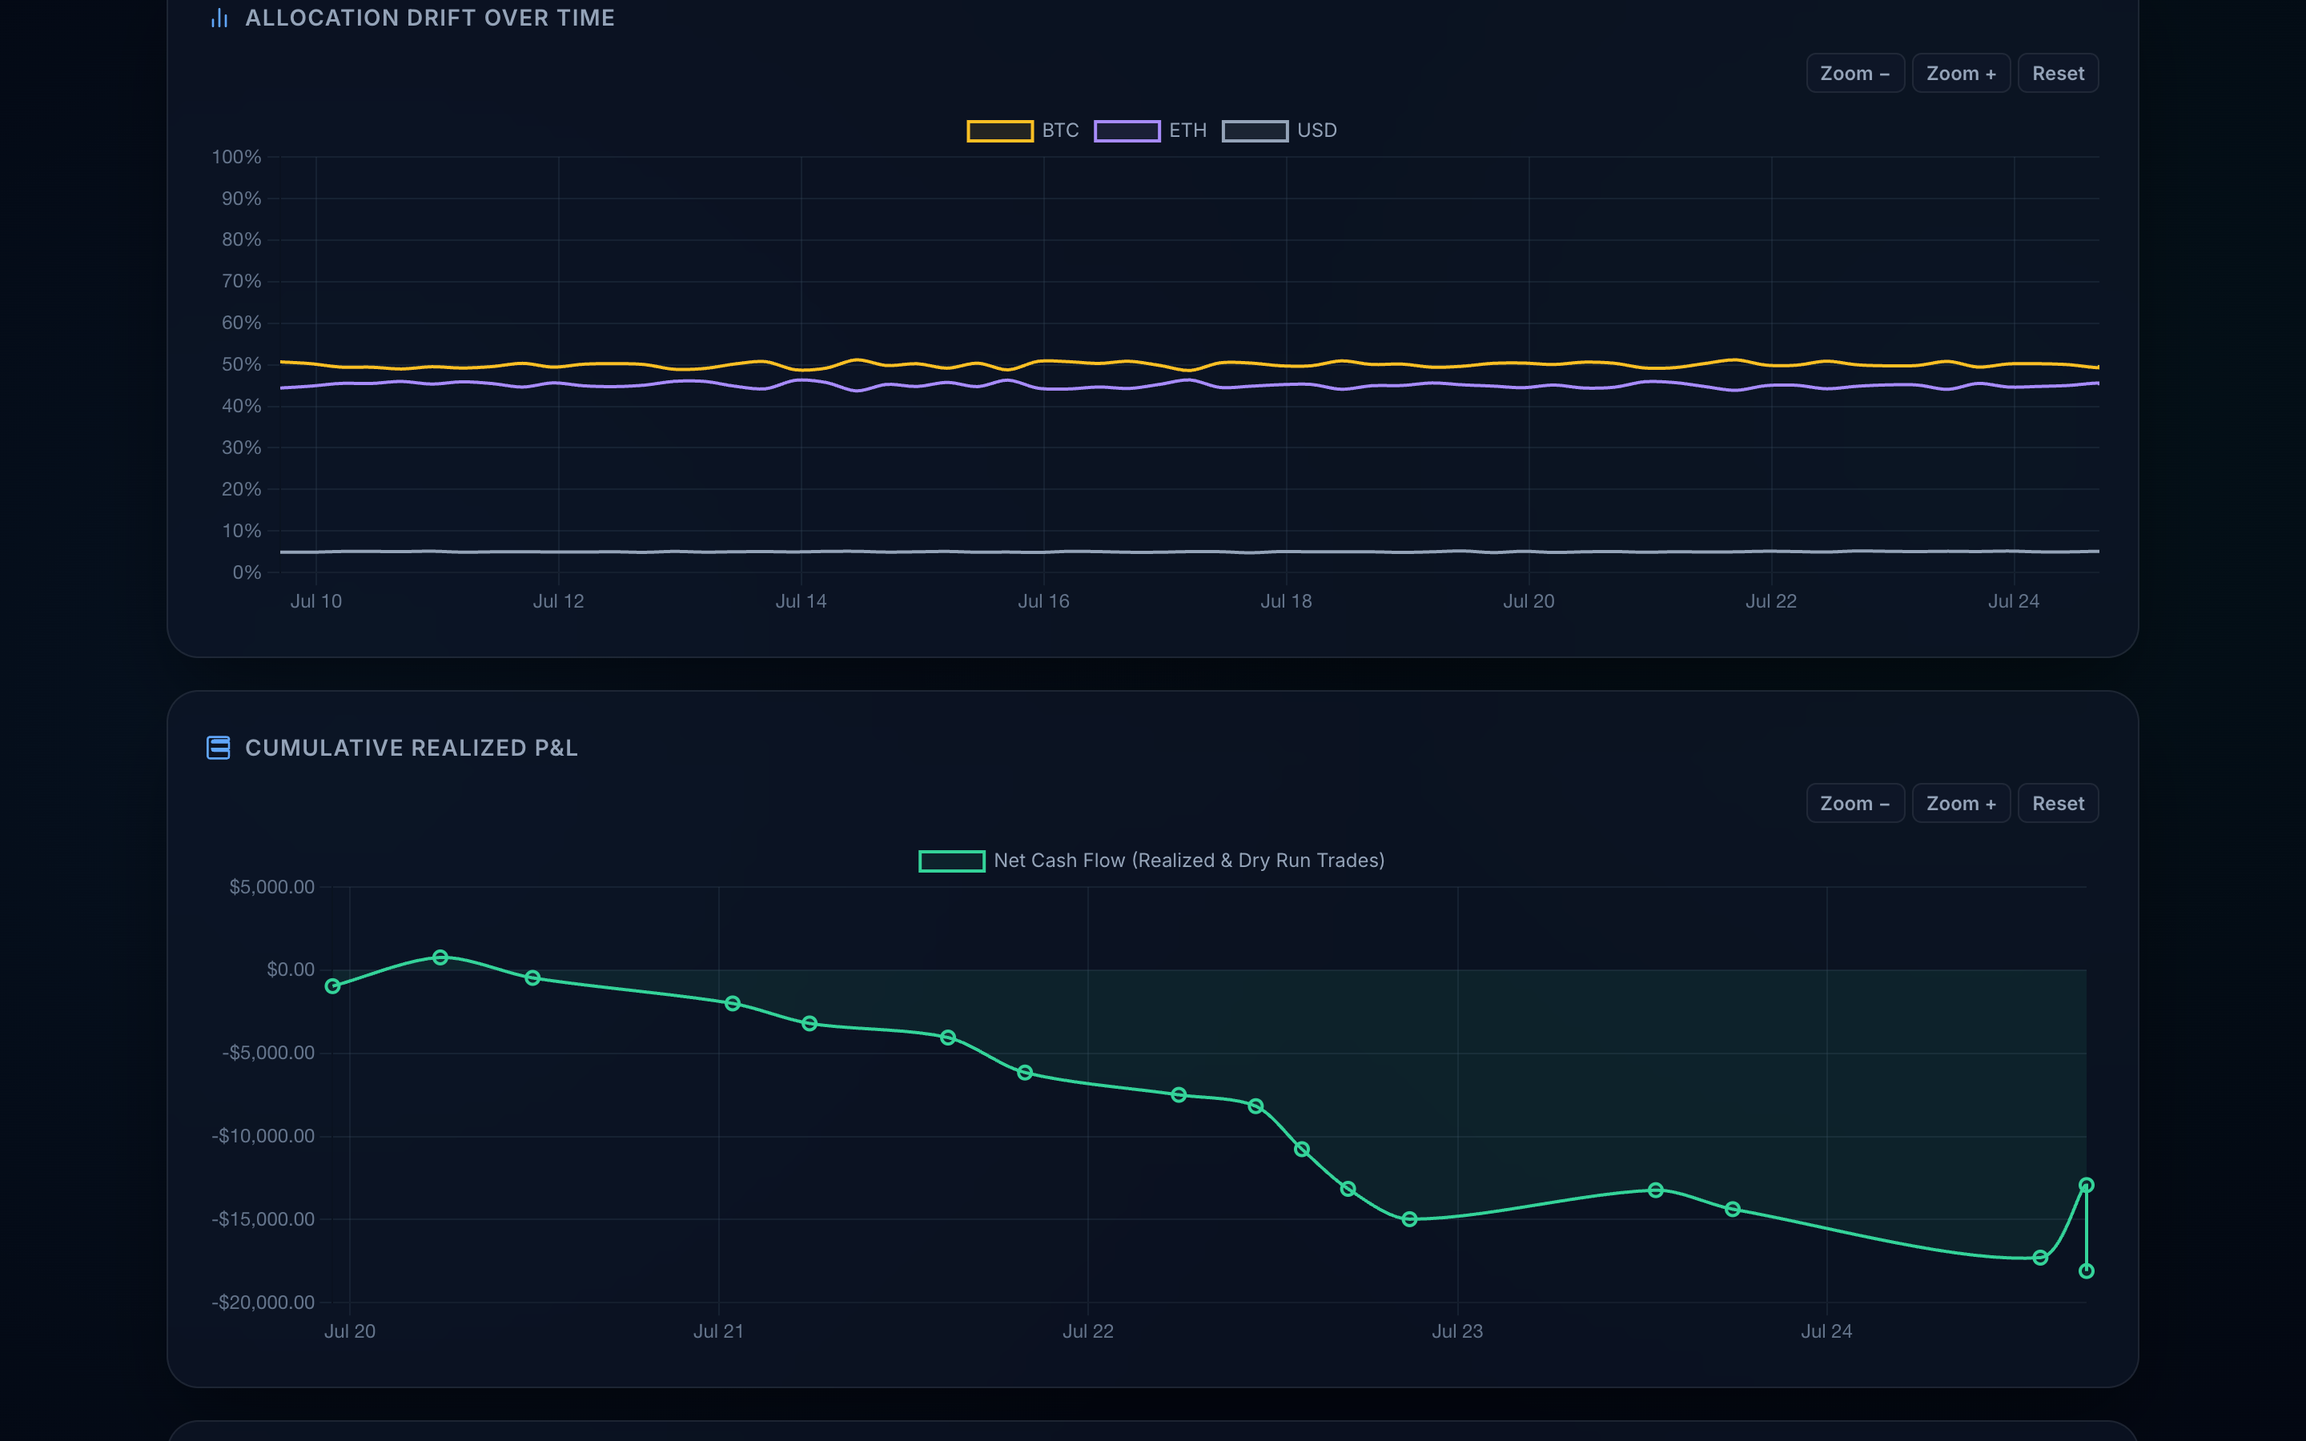
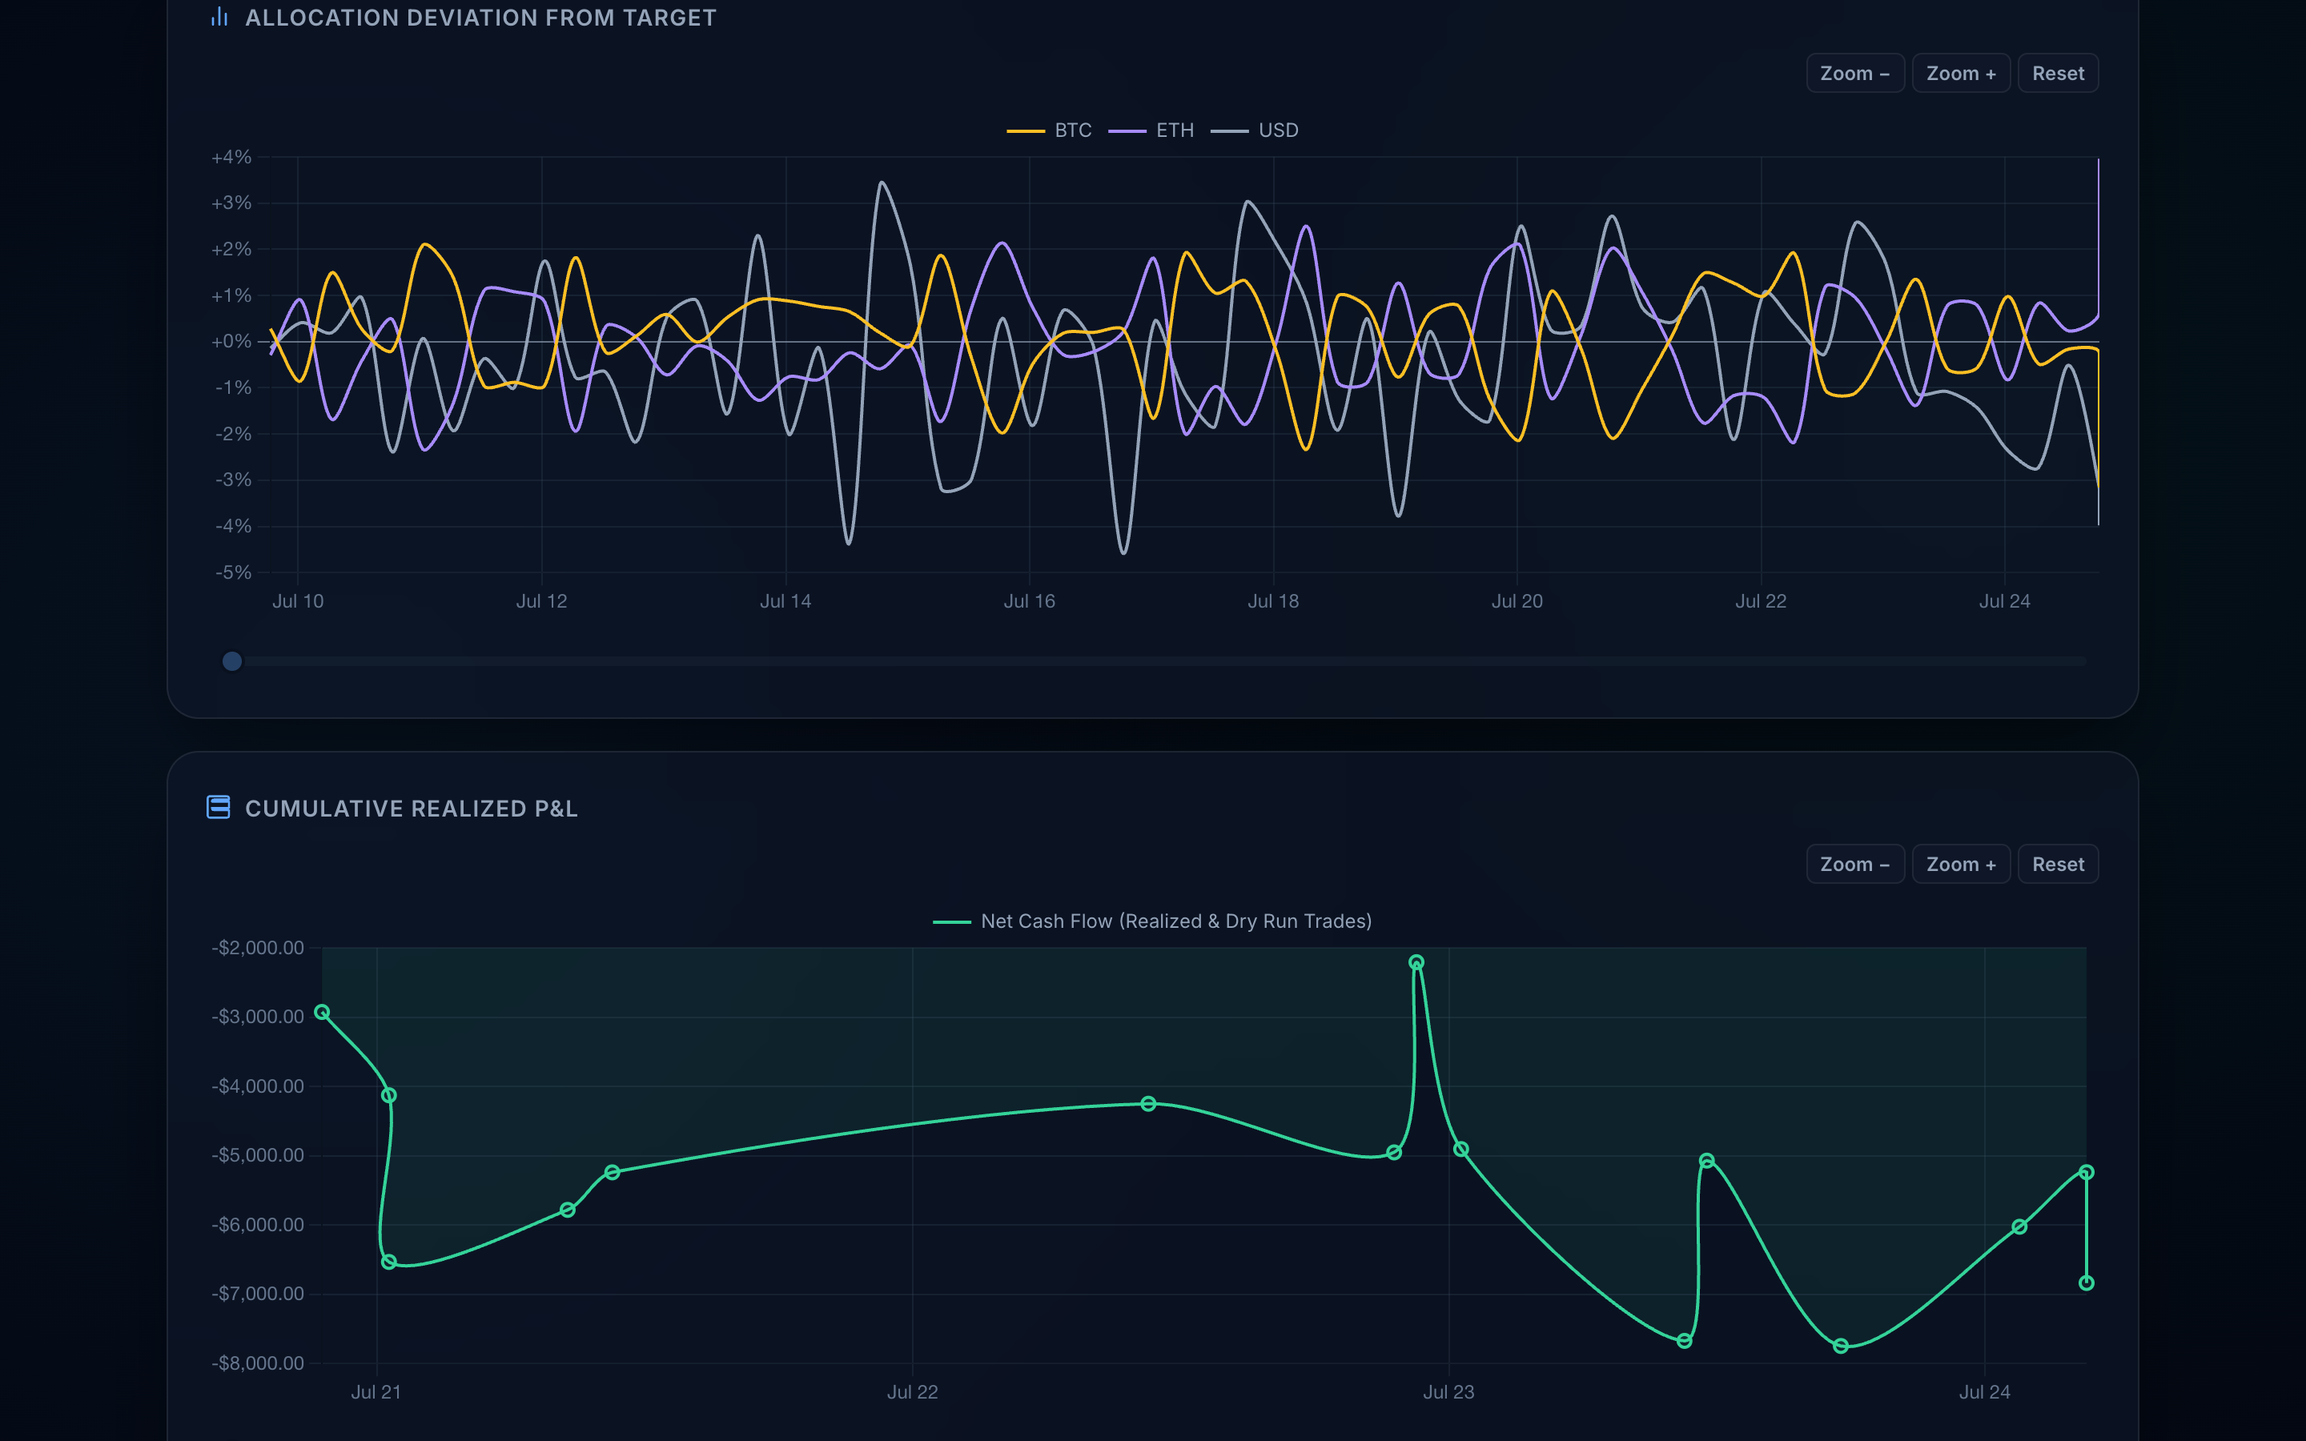
feat: plot History allocation as signed deviation from target
Replace the low-signal 0–100% share chart with relative overweight/underweight around a 0% baseline so rebalance corrections stay visible.

diff --git a/frontend-js/src/jsTest/kotlin/CoverageTest.kt b/frontend-js/src/jsTest/kotlin/CoverageTest.kt
@@ -630,6 +630,7 @@ class CoverageTest : StringSpec() {
                                             "valueUSD" to 100,
                                             "balance" to 100,
                                             "currentPercent" to 100,
+                                            "deviationPercent" to 5,
                                         ),
                                 ),
                         ),
@@ -643,12 +644,14 @@ class CoverageTest : StringSpec() {
                                             "valueUSD" to 60,
                                             "balance" to 2,
                                             "currentPercent" to 37.5,
+                                            "deviationPercent" to -25,
                                         ),
                                     Asset.USD to
                                         json(
                                             "valueUSD" to 100,
                                             "balance" to 50,
                                             "currentPercent" to 62.5,
+                                            "deviationPercent" to 25,
                                         ),
                                 ),
                         ),
@@ -702,7 +705,7 @@ class CoverageTest : StringSpec() {
                 tick2(12.34, 0, null).toString() shouldBe "+12.34%"
                 tick2(-5.6, 0, null).toString() shouldBe "-5.6%"
 
-                // 3. Allocation drift chart callbacks
+                // 3. Allocation deviation chart callbacks
                 val driftConfig = window.asDynamic().chartConfigs[2]
                 val label3 = driftConfig.options.plugins.tooltip.callbacks.label
                 val mockCtx3 =
@@ -710,9 +713,14 @@ class CoverageTest : StringSpec() {
                         dataset = json("label" to Asset.BTC)
                         parsed = json("y" to 12.34)
                     }
-                label3(mockCtx3).toString() shouldBe "BTC: 12.34%"
+                label3(mockCtx3).toString() shouldBe "BTC: +12.34% vs target"
                 val tick3 = driftConfig.options.scales.y.ticks.callback
-                tick3(12.34, 0, null).toString() shouldBe "12.34%"
+                tick3(12.34, 0, null).toString() shouldBe "+12.34%"
+                tick3(-5.6, 0, null).toString() shouldBe "-5.6%"
+                (driftConfig.options.scales.y.beginAtZero as Boolean) shouldBe true
+                val gridColor3 = driftConfig.options.scales.y.grid.color
+                gridColor3(json("tick" to json("value" to 0))).toString() shouldBe ChartProps.COLOR_ZERO_LINE
+                gridColor3(json("tick" to json("value" to 1))).toString() shouldBe ChartProps.COLOR_GRID_LINE
 
                 // 4. Cumulative P&L chart callbacks
                 val plConfig = window.asDynamic().chartConfigs[3]

diff --git a/frontend-js/src/jsTest/kotlin/HistoryTest.kt b/frontend-js/src/jsTest/kotlin/HistoryTest.kt
@@ -223,12 +223,14 @@ class HistoryTest : StringSpec() {
                                             "valueUSD" to 60,
                                             "balance" to 2,
                                             "currentPercent" to 60,
+                                            "deviationPercent" to 20,
                                         ),
                                     Asset.USD to
                                         json(
                                             "valueUSD" to 40,
                                             "balance" to 40,
                                             "currentPercent" to 40,
+                                            "deviationPercent" to -20,
                                         ),
                                 ),
                         ),
@@ -242,6 +244,7 @@ class HistoryTest : StringSpec() {
                                             "valueUSD" to 80,
                                             "balance" to 3,
                                             "currentPercent" to 80,
+                                            "deviationPercent" to 60,
                                         ),
                                 ),
                         ),
@@ -270,6 +273,10 @@ class HistoryTest : StringSpec() {
                 (window.asDynamic().chartConfigs.length as Int) shouldBe 5
                 val portfolioConfig = window.asDynamic().chartConfigs[0]
                 portfolioConfig.data.datasets.length as Int shouldBe 2
+                val deviationConfig = window.asDynamic().chartConfigs[2]
+                deviationConfig.data.datasets[0].data[0].y.toString().toDouble() shouldBe 20.0
+                deviationConfig.data.datasets[1].data[0].y.toString().toDouble() shouldBe -20.0
+                (deviationConfig.options.scales.y.beginAtZero as Boolean) shouldBe true
                 val updatedPortfolioConfig = window.asDynamic().chartConfigs[4]
                 (updatedPortfolioConfig.data.datasets[1].hidden as Boolean) shouldBe true
                 createOrUpdate(

diff --git a/frontend-js/src/jsMain/kotlin/History.kt b/frontend-js/src/jsMain/kotlin/History.kt
@@ -771,7 +771,7 @@ internal fun buildAllocationDriftChart(snapshots: Array<dynamic>) {
                     mapSnapshotsToPoints(snapshots) { s ->
                         if (s.assets != null && s.assets[sym] != null) {
                             s.assets[sym]
-                                .currentPercent
+                                .deviationPercent
                                 .toString()
                                 .toDoubleOrNull() ?: 0.0
                         } else {
@@ -801,13 +801,17 @@ internal fun buildAllocationDriftChart(snapshots: Array<dynamic>) {
             ctx.parsed.y
                 .toString()
                 .toDoubleOrNull() ?: 0.0
-        "$label: ${yVal.toFixed(PrecisionConstants.SCALE_USD)}%"
+        val sign = if (yVal >= 0.0) "+" else ""
+        "$label: $sign${yVal.toFixed(PrecisionConstants.SCALE_USD)}% ${ViewText.HISTORY_VS_TARGET}"
     }
 
-    options.scales.y.min = 0
-    options.scales.y.max = PrecisionConstants.TOTAL_ALLOCATION_PERCENTAGE
+    options.scales.y[ChartProps.BEGIN_AT_ZERO] = true
+    options.scales.y.grid.color = { ctx: dynamic ->
+        val tickValue = ctx.tick?.value.toString().toDoubleOrNull()
+        if (tickValue == 0.0) ChartProps.COLOR_ZERO_LINE else ChartProps.COLOR_GRID_LINE
+    }
     options.scales.y.ticks.callback = { v: Double, _: dynamic, _: dynamic ->
-        formatPctTick(v, includePlus = false)
+        formatPctTick(v, includePlus = true)
     }
 
     createOrUpdate(HtmlIds.ALLOCATION_DRIFT_CHART, createLineChartConfig(datasets, options))

diff --git a/common/src/commonMain/kotlin/com/gemini/krakenbot/view/util/ChartProps.kt b/common/src/commonMain/kotlin/com/gemini/krakenbot/view/util/ChartProps.kt
@@ -37,6 +37,7 @@ object ChartProps {
     const val GRID = "grid"
     const val TICKS = "ticks"
     const val MAX_TICKS_LIMIT = "maxTicksLimit"
+    const val BEGIN_AT_ZERO = "beginAtZero"
     const val USE_POINT_STYLE = "usePointStyle"
     const val POINT_STYLE = "pointStyle"
     const val POINT_STYLE_WIDTH = "pointStyleWidth"
@@ -105,6 +106,7 @@ object ChartProps {
     const val COLOR_TOOLTIP_TITLE = "#f8fafc"
     const val COLOR_TOOLTIP_BODY = "#cbd5e1"
     const val COLOR_GRID_LINE = "rgba(51, 65, 85, 0.3)"
+    const val COLOR_ZERO_LINE = "rgba(148, 163, 184, 0.65)"
     const val COLOR_TICK = "#64748b"
 
     // Color palette

diff --git a/frontend-js/src/jsTest/kotlin/JsTestHelpers.kt b/frontend-js/src/jsTest/kotlin/JsTestHelpers.kt
@@ -29,7 +29,16 @@ fun mockTradeRecord(
 fun mockSnapshotRecord(
     timestamp: String = "2023-01-01",
     totalValueUSD: Any? = 100.0,
-    assets: Any? = json(Asset.BTC to json("valueUSD" to 100, "balance" to 1, "currentPercent" to 100)),
+    assets: Any? =
+        json(
+            Asset.BTC to
+                json(
+                    "valueUSD" to 100,
+                    "balance" to 1,
+                    "currentPercent" to 100,
+                    "deviationPercent" to 0,
+                ),
+        ),
 ): dynamic =
     json(
         "timestamp" to timestamp,

diff --git a/common/src/commonMain/kotlin/com/gemini/krakenbot/view/util/ViewText.kt b/common/src/commonMain/kotlin/com/gemini/krakenbot/view/util/ViewText.kt
@@ -62,7 +62,8 @@ object ViewText {
     const val HISTORY_TITLE = "History"
     const val HISTORY_PORTFOLIO_VALUE = "Portfolio Value Over Time"
     const val HISTORY_ASSET_HOLDINGS = "Asset Holdings Over Time"
-    const val HISTORY_ALLOCATION_DRIFT = "Allocation Drift Over Time"
+    const val HISTORY_ALLOCATION_DRIFT = "Allocation Deviation from Target"
+    const val HISTORY_VS_TARGET = "vs target"
     const val HISTORY_CUMULATIVE_PL = "Cumulative Realized P&L"
     const val HISTORY_TRADE_LOG = "Trade History"
     const val HISTORY_ALL_TIME_HIGH = "All-Time High"

diff --git a/.agents/skills/ui-manual-qa/checklist.md b/.agents/skills/ui-manual-qa/checklist.md
@@ -56,7 +56,7 @@ width (~1280–1440px), not only narrow mobile.
 | :--- | :--- | :--- |
 | REGRESSION-1 | Dashboard at ~1280–1440px (`GLOBAL-6`) | Status cluster **LIVE**/**DELAYED** + **Data Age** not vertically squished, clipped, or stacked illegibly |
 | REGRESSION-2 | Dashboard → Asset Performance deviation legend | **Over target** and **Under target** each with amber/blue dot; labels spaced — not concatenated run-on text |
-| REGRESSION-3 | History chart legends (Portfolio Value, Asset Holdings, Allocation Drift, Cumulative P&L) | Legend swatches use line/point markers; not heavy bordered box chips around every label |
+| REGRESSION-3 | History chart legends (Portfolio Value, Asset Holdings, Allocation Deviation, Cumulative P&L) | Legend swatches use line/point markers; not heavy bordered box chips around every label |
 
 ---
 
@@ -125,7 +125,7 @@ Wait until sync banner completes (or is absent) before chart assertions.
 | :--- | :--- | :--- |
 | HIST-CHART-1 | Portfolio Value chart has drawn series | Canvas non-empty after seed |
 | HIST-CHART-2 | Asset Holdings chart drawn | Same |
-| HIST-CHART-3 | Scroll to Allocation Drift | Unstacked %-style series (0–100 domain intent) |
+| HIST-CHART-3 | Scroll to Allocation Deviation from Target | Signed %-style series around 0%; positive = overweight, negative = underweight; Y-axis is not fixed to 0–100% |
 | HIST-CHART-4 | Cumulative P&L chart drawn | Axis ticks readable; negatives use `-$` if present |
 | HIST-CHART-5 | Click chart legend item to hide a series (if interactive) | Series hides; click again restores |
 | HIST-ZOOM-1 | On Portfolio Value: **Zoom +** twice | X-axis time window narrows (fewer ticks / shorter span visible); bottom scrubber becomes **enabled** (not stuck disabled) |

diff --git a/docs/USER_GUIDE.md b/docs/USER_GUIDE.md
@@ -171,13 +171,15 @@ Each chart has **Zoom − / Zoom + / Reset**. You can also wheel, pinch, or
 drag-to-zoom on the **x-axis** only. Changing the time range rebuilds charts and
 clears zoom. Reset restores the full selected window.
 
-### Allocation drift & P&L
+### Allocation deviation & P&L
 
-![History — allocation drift and cumulative P&L](images/history-charts.png)
+![History — allocation deviation and cumulative P&L](images/history-charts.png)
 
-- **Allocation Drift Over Time** — Each series is that asset’s **current
-  allocation %** of the portfolio (0–100% Y scale). At any point BTC + ETH + USD
-  (and other symbols) should roughly sum to 100%.
+- **Allocation Deviation from Target** — Each series shows signed relative
+  deviation from that asset’s target. **0%** means on target, positive values
+  are overweight, and negative values are underweight. The Y-axis scales around
+  the observed drift so small departures and post-rebalance corrections remain
+  visible.
 - **Cumulative Realized P&L** — Net cash-flow style P&L over the window
   (includes dry-run trades when that filter is enabled). Negative axis ticks use
   `-$…` formatting.

diff --git a/README.md b/README.md
@@ -263,13 +263,13 @@ The dedicated History view provides detailed analysis and charts tracking portfo
 
 - **Portfolio Value Over Time** (overall portfolio value in USD + individual asset values)
 - **Asset Holdings Over Time** (% change in asset balance)
-- **Allocation Drift Over Time** (stacked chart showing target vs current asset distributions)
+- **Allocation Deviation from Target** (signed relative drift around a 0% on-target baseline)
 - **Cumulative P&L** (realized profit & loss over time)
 - **Comprehensive Trade Log Table** (showing all executions, with a toggle to filter/show dry-run trades)
 
 ![History Charts](docs/images/history.png)
 
-![History — Allocation Drift & P&L](docs/images/history-charts.png)
+![History — Allocation Deviation & P&L](docs/images/history-charts.png)
 
 ![Trade History Log](docs/images/history-bottom.png)
 

diff --git a/.agents/skills/docs-screenshot-refresh/SKILL.md b/.agents/skills/docs-screenshot-refresh/SKILL.md
@@ -47,7 +47,7 @@ readiness waits, and scroll position. Current set:
 | `dashboard-bottom.png` | `/` — asset table + recent activity |
 | `settings.png` | `/settings` — full settings form |
 | `history.png` | `/history` (30d) — summary cards + first charts |
-| `history-charts.png` | `/history` (30d) — allocation drift + cumulative P&L |
+| `history-charts.png` | `/history` (30d) — allocation deviation + cumulative P&L |
 | `history-bottom.png` | `/history` (30d) — trade log |
 
 Canonical PNGs are **2880×1800** (1440×900 @2×). This closely frames the app's

diff --git a/CHANGELOG.md b/CHANGELOG.md
@@ -39,6 +39,10 @@ to [Semantic Versioning](https://semver.org/spec/v2.0.0.html).
 
 ### Changed
 
+- **History allocation signal**: Replaced the low-signal 0–100% current-share
+  chart with signed relative deviation from each asset’s target. The axis now
+  includes a 0% on-target baseline and auto-scales to make small overweight /
+  underweight movements and rebalance corrections visible.
 - **Dashboard header density**: Looser StatusCluster / Data Age / status-card
   spacing on laptop widths so LIVE + Data Age and overview cards are not
   vertically crammed.
